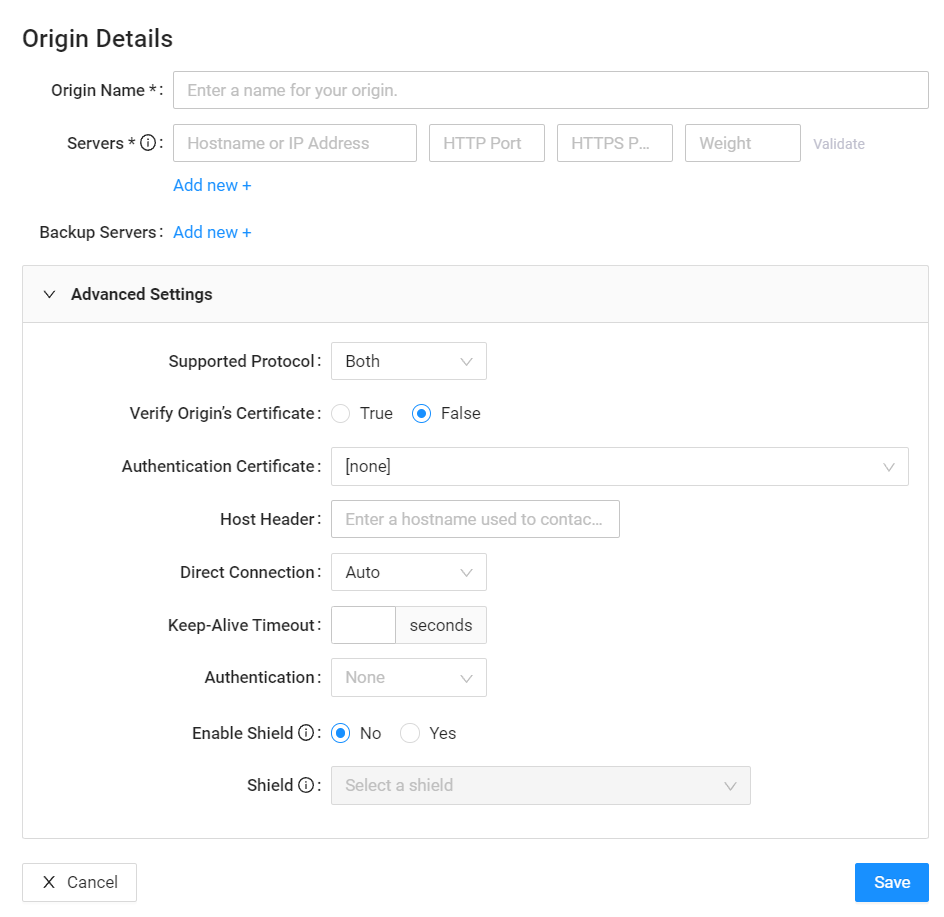
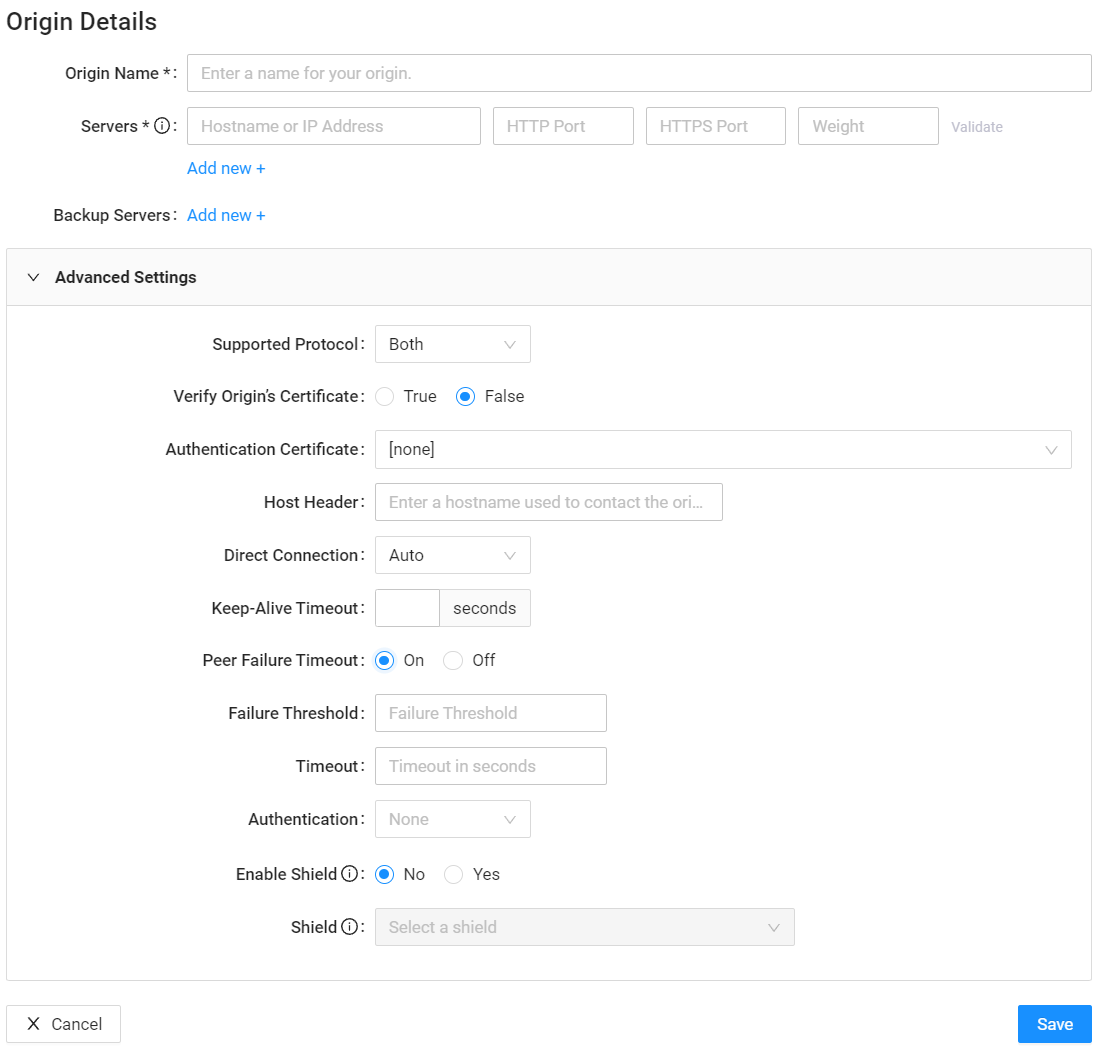
Addresses NGD_C-211

diff --git a/en/docs/portal/edge-configurations/managing-origins.md b/en/docs/portal/edge-configurations/managing-origins.md
@@ -31,8 +31,9 @@ Origins are your web servers containing the content you want CDN Pro to accelera
 | Host Header           | Enter a `Host` header value that CDN Pro will use to contact the origin. By default, the value in the client request will be passed through.|
 | Direct Connection     | Specify how the CDN Pro edge servers should reach the origin servers for uncached content or uncacheable requests. Choices are:<ul><li><strong>No Direct</strong> = always go to a parent CDN Pro server. Choose this selection to maximize the cache hit ratio on CDN Pro.<li><strong>Auto</strong> = automatically decide whether to go to the origin directly or to a parent CDN Pro server, based on performance and resource availability. (*default*)<li><strong>Always Direct</strong> = the edge servers should always go directly to the origin servers.</ul>|
 | Keep-Alive Timeout     | The concept of HTTP keep-alive is to use a single TCP connection to send and receive multiple HTTP requests/responses rather than open a new connection for every single request/response pair. In this field, enter the maximum number of seconds that a connection can remain open before timing out.|
+|Peer Failure Timeout   | Specify the maximum number of unsuccessful attempts to reach one of the origin server's IP addresses or peers before CDN Pro marks it as "unavailable" for a period of time designated by the timeout. If all peers of all servers are unavailable, requests for content from the origin receive an immediate "502 Bad Gateway" HTTP response. By default, six attempts are made to a peer, after which a one-second timeout applies to that peer. If you select <strong>On</strong> the following subfields appear:<ul><li><strong>Failure Threshold</strong> = enter the maximum number of unsuccessful attempts that will be made to reach one of the origin server's IP addresses or peers before CDN Pro marks it as unavailable.</ul></li><ul><li><strong>Timeout</strong> = enter the number of seconds that an origin's server IP addresses or peers will be unavailable.</ul></li>| 
 | Authentication        | Enables authentication for Amazon Web Services (AWS) S3 servers. Choices are:<ul><li><strong>None</strong> = no authentication. (*default*) <br><li><strong>AWS S3</strong> = enables authentication for AWS S3 servers. If you select this choice, you need to provide additional information to access the S3 bucket:<ul><li><strong>Region</strong> = select a [region](<https://docs.aws.amazon.com/AWSEC2/latest/UserGuide/using-regions-availability-zones.html#concepts-available-regions>) from the drop-down list.<li><strong>Access Key</strong> = enter the AWS access key to authenticate with the S3 server.<li><strong>Secret Key</strong> = enter the AWS secret key to authenticate with the S3 server.</ul>|
 | Enable Shield        | Enables the shield. The shield is an advanced feature that provides an extra caching layer between the CDN Pro edge servers and origin. The shield reduces the number of servers that can access your origin and improves the cache hit ratio. If your origin server has an IP access control list, call this [API](<https://docs.cdnetworks.com/en/cdn/apidocs#operation/get-cdn-shields>) to obtain the current IP addresses of the origin shield, and add the IP addresses of the shield you want to use. You will be notified by email if there are any changes to the IP addresses. If you require this feature, contact the [CDNetworks support team](mailto:support@cdnetworks.com).| 
 | Shield               | If you enabled the shield, select a shield location that is the most appropriate location for the origin. To use a shield in China, your property must have ICP Beian and enable **Has ICP Beian** in **Advanced Settings** on the [Property page](</docs/portal/edge-configurations/creating-property.md#advanced-settings>). For more information, contact the [CDNetworks support team](mailto:support@cdnetworks.com). | 
 
-5. Click the **Save** button.
+1. Click the **Save** button.

diff --git a/zh/docs/portal/edge-configurations/managing-origins.md b/zh/docs/portal/edge-configurations/managing-origins.md
@@ -31,6 +31,7 @@ Origins are your web servers containing the content you want CDN Pro to accelera
 | Host Header           | Enter a `Host` header value that CDN Pro will use to contact the origin. By default, the value in the client request will be passed through.|
 | Direct Connection     | Specify how the CDN Pro edge servers should reach the origin servers for uncached content or uncacheable requests. Choices are:<ul><li><strong>No Direct</strong> = always go to a parent CDN Pro server. Choose this selection to maximize the cache hit ratio on CDN Pro.<li><strong>Auto</strong> = automatically decide whether to go to the origin directly or to a parent CDN Pro server, based on performance and resource availability. (*default*)<li><strong>Always Direct</strong> = the edge servers should always go directly to the origin servers.</ul>|
 | Keep-Alive Timeout     | The concept of HTTP keep-alive is to use a single TCP connection to send and receive multiple HTTP requests/responses rather than open a new connection for every single request/response pair. In this field, enter the maximum number of seconds that a connection can remain open before timing out.|
+|Peer Failure Timeout   | Specify the maximum number of unsuccessful attempts to reach one of the origin server's IP addresses or peers before CDN Pro marks it as "unavailable" for a period of time designated by the timeout. If all peers of all servers are unavailable, requests for content from the origin receive an immediate "502 Bad Gateway" HTTP response. By default, six attempts are made to a peer, after which a one-second timeout applies to that peer. If you select <strong>On</strong> the following subfields appear:<ul><li><strong>Failure Threshold</strong> = enter the maximum number of unsuccessful attempts that will be made to reach one of the origin server's IP addresses or peers before CDN Pro marks it as unavailable.</ul></li><ul><li><strong>Timeout</strong> = enter the number of seconds that an origin's server IP addresses or peers will be marked as unavailable when the failure threshold is reached.</ul></li>| 
 | Authentication        | Enables authentication for Amazon Web Services (AWS) S3 servers. Choices are:<ul><li><strong>None</strong> = no authentication. (*default*) <br><li><strong>AWS S3</strong> = enables authentication for AWS S3 servers. If you select this choice, you need to provide additional information to access the S3 bucket:<ul><li><strong>Region</strong> = select a [region](<https://docs.aws.amazon.com/AWSEC2/latest/UserGuide/using-regions-availability-zones.html#concepts-available-regions>) from the drop-down list.<li><strong>Access Key</strong> = enter the AWS access key to authenticate with the S3 server.<li><strong>Secret Key</strong> = enter the AWS secret key to authenticate with the S3 server.</ul>|
 | Enable Shield        | Enables the shield. The shield is an advanced feature that provides an extra caching layer between the CDN Pro edge servers and origin. The shield reduces the number of servers that can access your origin and improves the cache hit ratio. If your origin server has an IP access control list, call this [API](<https://docs.cdnetworks.com/en/cdn/apidocs#operation/get-cdn-shields>) to obtain the current IP addresses of the origin shield, and add the IP addresses of the shield you want to use. You will be notified by email if there are any changes to the IP addresses. If you require this feature, contact the [CDNetworks support team](mailto:support@cdnetworks.com).| 
 | Shield               | If you enabled the shield, select a shield location that is the most appropriate location for the origin. To use a shield in China, your property must have ICP Beian and enable **Has ICP Beian** in **Advanced Settings** on the [Property page](</docs/portal/edge-configurations/creating-property.md#advanced-settings>). For more information, contact the [CDNetworks support team](mailto:support@cdnetworks.com). | 
